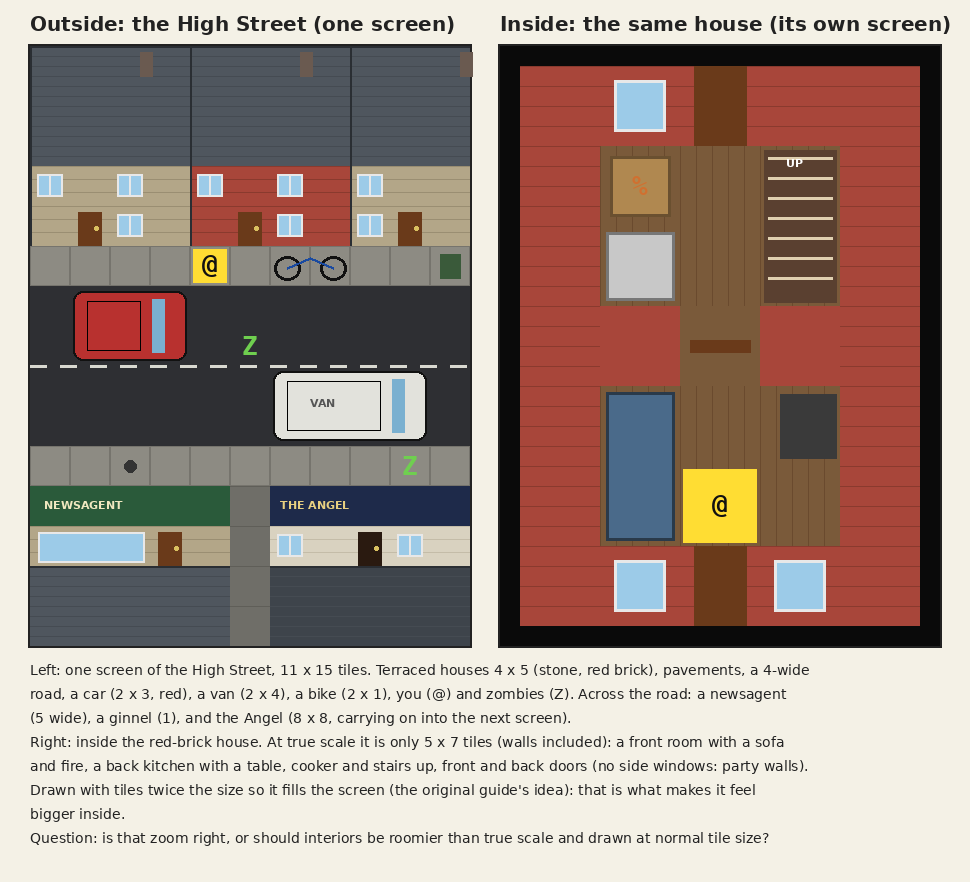
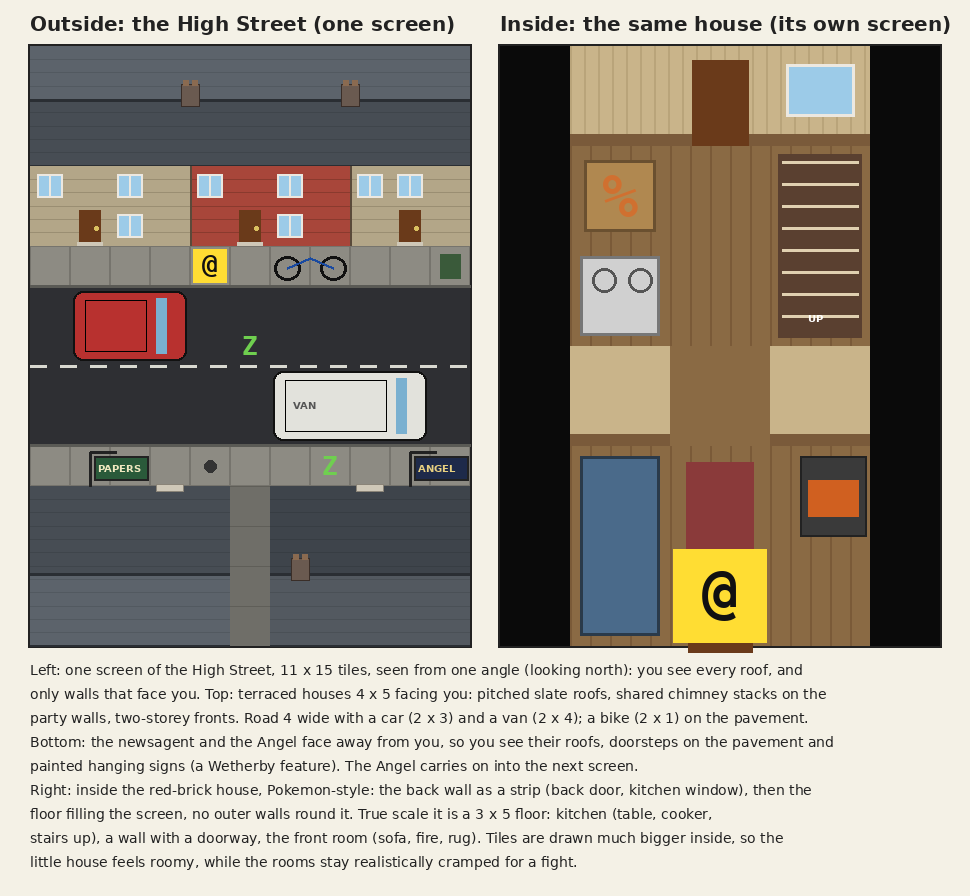
Sample screen v2: one camera angle outside (roofs, south-facing walls, hanging signs), Pokemon-style interior
Claude-Session: https://claude.ai/code/session_017J8T9cwTP1Hr7eduLsqAEN

diff --git a/docs/sample-screen.py b/docs/sample-screen.py
@@ -1,4 +1,8 @@
 # Draws a sample street screen (outside scale) and the inside of one house (true scale), greybox style.
+# One camera angle everywhere (looking north, a little from above): you see every roof, and only the
+# walls that face you. Buildings that face away show their roof and back, with a hanging sign over
+# the pavement. Inside, Pokemon-style: the back wall as a strip, the floor filling the screen, no
+# outer walls drawn round it.
 # Run from the repo root: python3 docs/sample-screen.py  ->  docs/sample-screen.png
 from PIL import Image, ImageDraw, ImageFont
 
@@ -10,9 +14,10 @@ MONO = '/usr/share/fonts/truetype/dejavu/DejaVuSansMono-Bold.ttf'
 f_title = ImageFont.truetype(BOLD, 20)
 f_cap = ImageFont.truetype(FONT, 14)
 f_glyph = ImageFont.truetype(MONO, 26)
-f_tiny = ImageFont.truetype(BOLD, 11)
+f_big = ImageFont.truetype(MONO, 60)
+f_tiny = ImageFont.truetype(BOLD, 10)
 
-GAP, TOP, CAP = 30, 46, 236
+GAP, TOP, CAP = 30, 46, 250
 W = COLS * T * 2 + GAP * 3
 H = TOP + ROWS * T + CAP
 img = Image.new('RGB', (W, H), '#f4f1e6')
@@ -22,151 +27,179 @@ def panel(ox, oy, title):
     d.text((ox, 12), title, font=f_title, fill='#222')
     d.rectangle([ox - 2, oy - 2, ox + COLS * T + 1, oy + ROWS * T + 1], outline='#222', width=2)
 
-def R(ox, oy, x, y, w=1, h=1, t=T):
-    return [ox + x * t, oy + y * t, ox + (x + w) * t - 1, oy + (y + h) * t - 1]
-
-def glyph(ox, oy, x, y, ch, fg, bg=None, t=T):
+def glyph(px, py, size, ch, fg, bg=None, font=f_glyph):
     if bg:
-        d.rectangle([ox + x * t + 3, oy + y * t + 3, ox + (x + 1) * t - 4, oy + (y + 1) * t - 4], fill=bg)
-    bb = d.textbbox((0, 0), ch, font=f_glyph)
-    d.text((ox + x * t + (t - (bb[2] - bb[0])) / 2 - bb[0], oy + y * t + (t - (bb[3] - bb[1])) / 2 - bb[1]), ch, font=f_glyph, fill=fg)
+        d.rectangle([px + 3, py + 3, px + size - 4, py + size - 4], fill=bg)
+    bb = d.textbbox((0, 0), ch, font=font)
+    d.text((px + (size - (bb[2] - bb[0])) / 2 - bb[0], py + (size - (bb[3] - bb[1])) / 2 - bb[1]), ch, font=font, fill=fg)
 
 # ---------------- Left: a High Street screen, outside scale ----------------
 ox, oy = GAP, TOP
 panel(ox, oy, 'Outside: the High Street (one screen)')
+X = lambda x: ox + x * T
+Y = lambda y: oy + y * T
 
-def roof(x, y, w, h, col='#4f565e'):
-    d.rectangle(R(ox, oy, x, y, w, h), fill=col)
-    for k in range(h * 4):
-        yy = oy + y * T + k * T // 4
-        d.line([ox + x * T, yy, ox + (x + w) * T - 1, yy], fill='#454b52', width=1)
-    d.line([ox + x * T, oy + y * T, ox + (x + w) * T - 1, oy + y * T], fill='#2a2e33', width=2)
+def pitched_roof(x, y, w, h, far='#5c636b', near='#474d54', ridge_at=0.5):
+    """A pitched roof seen from the south: the far slope (lit) above the ridge, the near slope below."""
+    ry = Y(y) + int(h * T * ridge_at)
+    d.rectangle([X(x), Y(y), X(x + w) - 1, ry], fill=far)
+    d.rectangle([X(x), ry, X(x + w) - 1, Y(y + h) - 1], fill=near)
+    def shade(c, f):
+        c = c.lstrip('#'); return '#' + ''.join(f'{max(0, int(int(c[i:i + 2], 16) * f)):02x}' for i in (0, 2, 4))
+    for k in range(1, h * 3):                       # slate courses, a touch darker than the slope
+        yy = Y(y) + k * T // 3
+        if abs(yy - ry) < 4:
+            continue
+        d.line([X(x), yy, X(x + w) - 1, yy], fill=shade(far if yy < ry else near, 0.9), width=1)
+    d.line([X(x), ry, X(x + w) - 1, ry], fill='#2a2e33', width=3)              # ridge
+    d.line([X(x), Y(y + h) - 1, X(x + w) - 1, Y(y + h) - 1], fill='#2a2e33', width=2)  # eaves
 
-def wall(x, y, w, h, col='#b3a688', course='#9a8e72'):
-    d.rectangle(R(ox, oy, x, y, w, h), fill=col)
-    for k in range(h * 3):
-        yy = oy + y * T + k * T // 3
-        d.line([ox + x * T, yy, ox + (x + w) * T - 1, yy], fill=course, width=1)
+def stack(px, ry):                                   # a shared chimney stack on the ridge
+    d.rectangle([px - 9, ry - 16, px + 9, ry + 6], fill='#6a5a50', outline='#3a2e28')
+    for k in (-5, 4):
+        d.rectangle([px + k - 2, ry - 20, px + k + 3, ry - 15], fill='#8a6a50')
+
+def front_wall(x, y, w, h, col, course):
+    d.rectangle([X(x), Y(y), X(x + w) - 1, Y(y + h) - 1], fill=col)
+    for k in range(1, h * 3):
+        yy = Y(y) + k * T // 3
+        d.line([X(x), yy, X(x + w) - 1, yy], fill=course, width=1)
 
 def door(x, y, col='#6a3a1a'):
-    d.rectangle([ox + x * T + 8, oy + y * T + 6, ox + (x + 1) * T - 9, oy + (y + 1) * T - 1], fill=col)
-    d.ellipse([ox + x * T + 24, oy + y * T + 20, ox + x * T + 28, oy + y * T + 24], fill='#d9c060')
+    d.rectangle([X(x) + 9, Y(y) + 4, X(x + 1) - 10, Y(y + 1) - 1], fill=col)
+    d.ellipse([X(x) + 24, Y(y) + 20, X(x) + 28, Y(y) + 24], fill='#d9c060')
+    d.rectangle([X(x) + 7, Y(y + 1) - 4, X(x + 1) - 8, Y(y + 1) - 1], fill='#cfc8b8')   # step
 
-def window(x, y, wide=1):
-    d.rectangle([ox + x * T + 7, oy + y * T + 8, ox + (x + wide) * T - 8, oy + (y + 1) * T - 10], fill='#9ccbe8', outline='#e8e8e8', width=2)
-    d.line([ox + x * T + 7 + ((wide * T - 15) // 2), oy + y * T + 8, ox + x * T + 7 + ((wide * T - 15) // 2), oy + (y + 1) * T - 10], fill='#e8e8e8', width=2)
+def window(x, y, w=1):
+    d.rectangle([X(x) + 7, Y(y) + 8, X(x + w) - 8, Y(y + 1) - 9], fill='#9ccbe8', outline='#ece8e0', width=2)
+    mx = (X(x) + 7 + X(x + w) - 8) // 2
+    d.line([mx, Y(y) + 8, mx, Y(y + 1) - 9], fill='#ece8e0', width=2)
 
-# Row 0-4: a terrace of houses, 4 wide x 5 deep, fronts facing the street (down)
-for i, x in enumerate([0, 4, 8]):
-    w = 4 if x < 8 else 3
-    roof(x, 0, w, 3)
-    wall(x, 3, w, 2, '#b3a688' if i != 1 else '#a8463a', '#9a8e72' if i != 1 else '#8a3a2e')
-    d.rectangle([ox + (x + 3) * T - 10, oy + 6, ox + (x + 3) * T + 2, oy + 30], fill='#6a5a50')   # chimney
-    window(x, 3); window(x + 2, 3) if w == 4 else None
-    door(x + 1, 4); window(x + 2, 4) if w == 4 else window(x, 4)
-    d.line([ox + x * T, oy, ox + x * T, oy + 5 * T], fill='#2a2e33', width=2)     # party wall
-# Row 5: pavement
+# North side of the street: a terrace, fronts facing you (south). Each house 4 wide x 5 deep:
+# roof 3 rows (ridge along the row, chimney stacks on the party walls), front wall 2 rows (two storeys).
+houses = [(0, 4, '#b3a688', '#9a8e72'), (4, 4, '#a8463a', '#8a3a2e'), (8, 3, '#b3a688', '#9a8e72')]
+for x, w, col, course in houses:
+    pitched_roof(x, 0, w, 3, ridge_at=0.45)
+for x, w, col, course in houses:
+    front_wall(x, 3, w, 2, col, course)
+    window(x, 3); window(x + 2, 3) if w == 4 else window(x + 1, 3)
+    door(x + 1, 4); window(x + 2, 4) if w == 4 else None
+ry = Y(0) + int(3 * T * 0.45)
+for px in (X(4), X(8)):
+    stack(px, ry)
+for px in (X(4), X(8)):
+    d.line([px, Y(3), px, Y(5) - 1], fill='#5a4a3a', width=2)             # party walls between fronts
+
+# Pavement, road (4 wide, centre line), pavement
 for x in range(COLS):
-    d.rectangle(R(ox, oy, x, 5), fill='#8d8b83', outline='#76746d')
-# Row 6-9: the road, 4 wide, centre line
-d.rectangle(R(ox, oy, 0, 6, COLS, 4), fill='#2e2f33')
+    d.rectangle([X(x), Y(5), X(x + 1) - 1, Y(6) - 1], fill='#8d8b83', outline='#76746d')
+    d.rectangle([X(x), Y(10), X(x + 1) - 1, Y(11) - 1], fill='#8d8b83', outline='#76746d')
+d.rectangle([X(0), Y(6), X(COLS) - 1, Y(10) - 1], fill='#2e2f33')
 for x in range(0, COLS * T, 30):
-    d.line([ox + x, oy + 8 * T, ox + x + 16, oy + 8 * T], fill='#d8d8d0', width=3)
-# Row 10: pavement
-for x in range(COLS):
-    d.rectangle(R(ox, oy, x, 10), fill='#8d8b83', outline='#76746d')
-# Row 11-14: across the road: corner shop (5 wide), a ginnel, the pub (8 wide, goes off screen)
-wall(0, 11, 5, 2, '#b3a688')
-d.rectangle(R(ox, oy, 0, 11, 5, 1), fill='#2a5a3a')                         # shop fascia
-d.text((ox + 14, oy + 11 * T + 12), 'NEWSAGENT', font=f_tiny, fill='#f0e8c0')
-d.rectangle([ox + 8, oy + 12 * T + 6, ox + 3 * T - 6, oy + 13 * T - 4], fill='#9ccbe8', outline='#e8e8e8', width=2)  # shop window
-door(3, 12)
-roof(0, 13, 5, 2)
-d.rectangle(R(ox, oy, 5, 11, 1, 4), fill='#6f6e68')                          # ginnel
+    d.line([X(0) + x, Y(8), X(0) + x + 16, Y(8)], fill='#d8d8d0', width=3)
+d.line([X(0), Y(6), X(COLS), Y(6)], fill='#5a5a55', width=3)                   # kerbs
+d.line([X(0), Y(10) - 1, X(COLS), Y(10) - 1], fill='#5a5a55', width=3)
+
+# South side of the street: the newsagent and the Angel face north (away from you), so you see
+# their roofs (near slope at the bottom) and a hanging sign and doorstep on the pavement side.
+pitched_roof(0, 11, 5, 4, far='#474d54', near='#5c636b', ridge_at=0.55)        # newsagent
+d.rectangle([X(5), Y(11), X(6) - 1, Y(15) - 1], fill='#6f6e68')               # ginnel
 for k in range(4):
-    d.line([ox + 5 * T, oy + (11 + k) * T, ox + 6 * T - 1, oy + (11 + k) * T], fill='#5f5e58', width=1)
-wall(6, 11, 5, 2, '#d9d2c0', '#c4bca8')                                      # pub: whitewashed
-d.rectangle(R(ox, oy, 6, 11, 5, 1), fill='#1e2a4a')
-d.text((ox + 6 * T + 10, oy + 11 * T + 12), 'THE ANGEL', font=f_tiny, fill='#e8d080')
-window(6, 12); door(8, 12, '#2a1a10'); window(9, 12)
-roof(6, 13, 5, 2, '#3e444b')
-# Vehicles and things (outside sizes): car 2x3, van 2x4, bike 2x1
-def car(x, y, length, col, horiz=True):
-    x0, y0 = ox + x * T + 3, oy + y * T + 5
-    x1, y1 = ox + (x + length) * T - 4, oy + (y + 2) * T - 6
+    d.line([X(5), Y(11 + k), X(6) - 1, Y(11 + k)], fill='#5f5e58', width=1)
+pitched_roof(6, 11, 5, 4, far='#3e444b', near='#535960', ridge_at=0.55)         # the Angel (8 wide, carries on east)
+stack(X(6) + 30, Y(11) + int(4 * T * 0.55))
+# Doorsteps on the street side (their doors are on the far side of the roof from you)
+for x in (3, 8):
+    d.rectangle([X(x) + 6, Y(11) - 2, X(x + 1) - 7, Y(11) + 5], fill='#cfc8b8', outline='#8a8478')
+# Hanging signs over the pavement, on brackets from the front wall
+def sign(x, text, bg, fg):
+    bx = X(x) + 20
+    d.line([bx, Y(11), bx, Y(10) + 6], fill='#222', width=3)
+    d.line([bx, Y(10) + 6, bx + 26, Y(10) + 6], fill='#222', width=3)
+    d.rectangle([bx + 4, Y(10) + 10, bx + 58, Y(10) + 34], fill=bg, outline='#222', width=2)
+    d.text((bx + 8, Y(10) + 16), text, font=f_tiny, fill=fg)
+sign(1, 'PAPERS', '#2a5a3a', '#f0e8c0')
+sign(9, 'ANGEL', '#1e2a4a', '#e8d080')
+
+# Vehicles (outside sizes): car 2x3, van 2x4 (width x length; here parked along the road), bike 2x1
+def vehicle(x, y, length, col, label=None):
+    x0, y0, x1, y1 = X(x) + 3, Y(y) + 5, X(x + length) - 4, Y(y + 2) - 6
     d.rounded_rectangle([x0, y0, x1, y1], radius=10, fill=col, outline='#111', width=2)
-    d.rectangle([x1 - 34, y0 + 8, x1 - 22, y1 - 8], fill='#7ab0d0')            # windscreen
-    d.rectangle([x0 + 14, y0 + 10, x1 - 46, y1 - 10], fill=col, outline='#00000040')
-car(1, 6, 3, '#b8312f')                                                       # car, parked
-car(6, 8, 4, '#e2e2dc')                                                       # van, other side
-d.text((ox + 7 * T, oy + 8 * T + 30), 'VAN', font=f_tiny, fill='#555')
-# Bike on the pavement (2x1)
-bx, by = ox + 6 * T, oy + 5 * T
+    d.rectangle([x1 - 30, y0 + 7, x1 - 20, y1 - 7], fill='#7ab0d0')
+    d.rectangle([x0 + 12, y0 + 9, x1 - 40, y1 - 9], fill=col, outline='#00000055')
+    if label:
+        d.text((x0 + 20, (y0 + y1) // 2 - 6), label, font=f_tiny, fill='#555')
+vehicle(1, 6, 3, '#b8312f')
+vehicle(6, 8, 4, '#e2e2dc', 'VAN')
+bx, by = X(6), Y(5)
 d.ellipse([bx + 4, by + 10, bx + 30, by + 34], outline='#111', width=3)
 d.ellipse([bx + T + 10, by + 10, bx + T + 36, by + 34], outline='#111', width=3)
 d.line([bx + 17, by + 22, bx + 40, by + 12, bx + T + 23, by + 22], fill='#1a4aa0', width=3)
-# Lamp post and a bin
-d.ellipse([ox + 2 * T + 14, oy + 10 * T + 14, ox + 2 * T + 26, oy + 10 * T + 26], fill='#333')
-d.rectangle([ox + 10 * T + 10, oy + 5 * T + 8, ox + 10 * T + 30, oy + 5 * T + 32], fill='#3a5a3a')
-# People: you and a zombie (1 tile each)
-glyph(ox, oy, 4, 5, '@', '#111', '#ffdd33')
-glyph(ox, oy, 5, 7, 'Z', '#6fcf4f')
-glyph(ox, oy, 9, 10, 'Z', '#6fcf4f')
+d.ellipse([X(4) + 14, Y(10) + 14, X(4) + 26, Y(10) + 26], fill='#333')        # lamp post
+d.rectangle([X(10) + 10, Y(5) + 8, X(10) + 30, Y(5) + 32], fill='#3a5a3a')    # bin
+glyph(X(4), Y(5), T, '@', '#111', '#ffdd33')
+glyph(X(5), Y(7), T, 'Z', '#6fcf4f')
+glyph(X(7), Y(10), T, 'Z', '#6fcf4f')
 
-# ---------------- Right: inside the red-brick house, true scale ----------------
+# ---------------- Right: inside the red-brick house, Pokemon-style ----------------
 ix, iy = GAP * 2 + COLS * T, TOP
 panel(ix, iy, 'Inside: the same house (its own screen)')
 d.rectangle([ix, iy, ix + COLS * T - 1, iy + ROWS * T - 1], fill='#0a0a0a')
-# The house is 5 x 7 tiles at true scale (walls included); drawn so it fills the screen (tiles x2).
-Z = 2 * T
-hx, hy = ix + (COLS * T - 5 * Z) // 2, iy + (ROWS * T - 7 * Z) // 2
-def ri(x, y, w=1, h=1):
-    return [hx + x * Z, hy + y * Z, hx + (x + w) * Z - 1, hy + (y + h) * Z - 1]
-for y in range(7):
-    for x in range(5):
-        edge = x in (0, 4) or y in (0, 6)
-        if edge:
-            d.rectangle(ri(x, y), fill='#a8463a')
-            for k in range(4):
-                d.line([hx + x * Z, hy + y * Z + k * Z // 4, hx + (x + 1) * Z - 1, hy + y * Z + k * Z // 4], fill='#8a3a2e')
-        else:
-            d.rectangle(ri(x, y), fill='#7a5a3a')
-            for k in range(0, Z, 16):
-                d.line([hx + x * Z + k, hy + y * Z, hx + x * Z + k, hy + (y + 1) * Z - 1], fill='#6a4a2e')
-# Partition between the back kitchen (top) and the front room (bottom), with an inside door
-for x in (1, 3):
-    d.rectangle(ri(x, 3), fill='#a8463a')
-d.rectangle(ri(2, 3), fill='#7a5a3a')
-d.rectangle([hx + 2 * Z + 10, hy + 3 * Z + Z // 2 - 6, hx + 3 * Z - 10, hy + 3 * Z + Z // 2 + 6], fill='#6a3a1a')
-# Front door (bottom), back door (top), windows
-d.rectangle([hx + 2 * Z + 14, hy + 6 * Z, hx + 3 * Z - 14, hy + 7 * Z - 1], fill='#6a3a1a')
-d.rectangle([hx + 2 * Z + 14, hy, hx + 3 * Z - 14, hy + Z - 1], fill='#6a3a1a')
-for (x, y) in [(1, 6), (3, 6), (1, 0)]:   # front windows either side of the door, one at the back (party walls: none at the sides)
-    d.rectangle([hx + x * Z + 14, hy + y * Z + 14, hx + (x + 1) * Z - 15, hy + (y + 1) * Z - 15], fill='#9ccbe8', outline='#e8e8e8', width=3)
-# Furniture: sofa 1x2 and fireplace in the front room; table, cooker and the stairs (1x2) in the kitchen
-d.rectangle([hx + 1 * Z + 6, hy + 4 * Z + 6, hx + 2 * Z - 6, hy + 6 * Z - 6], fill='#4a6a8a', outline='#2a3a4a', width=3)   # sofa
-d.rectangle([hx + 3 * Z + 20, hy + 4 * Z + 8, hx + 4 * Z - 4, hy + 5 * Z - 8], fill='#3a3a3a')                               # fireplace
-d.rectangle([hx + 1 * Z + 10, hy + 1 * Z + 10, hx + 2 * Z - 10, hy + 2 * Z - 10], fill='#b08850', outline='#6a5030', width=3)  # table
-d.rectangle([hx + 1 * Z + 6, hy + 2 * Z + 6, hx + 2 * Z - 6, hy + 3 * Z - 6], fill='#c8c8c8', outline='#777', width=3)      # cooker
-d.rectangle([hx + 3 * Z + 4, hy + 1 * Z + 4, hx + 4 * Z - 4, hy + 3 * Z - 4], fill='#5a4030')                                # stairs up (1x2)
-for k in range(7):
-    yy = hy + 1 * Z + 12 + k * 20
-    d.line([hx + 3 * Z + 8, yy, hx + 4 * Z - 8, yy], fill='#e0d0b0', width=3)
-d.text((hx + 3 * Z + 26, hy + 1 * Z + 10), 'UP', font=f_tiny, fill='#ffffff')
-# A tin on the table, you at the door
-glyph(hx, hy, 1, 1, '%', '#d07030', None, Z)
-glyph(hx, hy, 2, 5, '@', '#111', '#ffdd33', Z)
+# True scale: a 5 x 7 house is a 3 x 5 floor (kitchen behind, front room in front, a wall between).
+# Shown as the floor filling the screen, with the back wall as a strip along the top. No outer walls.
+FW, FH = 3, 5
+Z = min((COLS * T) // FW, (ROWS * T) // (FH + 1))      # tile size inside: as big as fits (100 px)
+hx = ix + (COLS * T - FW * Z) // 2
+hy = iy + (ROWS * T - (FH + 1) * Z) // 2 + Z           # floor starts below the back-wall strip
+def ri(x, y, w=1, h=1, pad=0):
+    return [hx + x * Z + pad, hy + y * Z + pad, hx + (x + w) * Z - 1 - pad, hy + (y + h) * Z - 1 - pad]
+# Back wall strip: wallpaper, the back door and the kitchen window
+d.rectangle([hx, hy - Z, hx + FW * Z - 1, hy - 1], fill='#c9b48a')
+for k in range(0, FW * Z, 14):
+    d.line([hx + k, hy - Z, hx + k, hy - 1], fill='#b9a47a', width=2)
+d.rectangle([hx, hy - 12, hx + FW * Z - 1, hy - 1], fill='#7a5a3a')               # skirting
+d.rectangle([hx + 1 * Z + 22, hy - Z + 14, hx + 2 * Z - 22, hy - 1], fill='#6a3a1a')  # back door
+d.rectangle([hx + 2 * Z + 16, hy - Z + 18, hx + 3 * Z - 16, hy - 30], fill='#9ccbe8', outline='#ece8e0', width=3)
+# Floorboards
+for y in range(FH):
+    for x in range(FW):
+        d.rectangle(ri(x, y), fill='#8a6a44')
+        for k in range(0, Z, 20):
+            d.line([hx + x * Z + k, hy + y * Z, hx + x * Z + k, hy + (y + 1) * Z - 1], fill='#7a5a38', width=2)
+# The wall between the kitchen (rows 0-1) and the front room (rows 3-4), with an open door in the middle
+d.rectangle(ri(0, 2), fill='#c9b48a'); d.rectangle(ri(2, 2), fill='#c9b48a')
+d.rectangle([hx, hy + 2 * Z + Z - 12, hx + FW * Z - 1, hy + 3 * Z - 1], fill='#7a5a3a')
+d.rectangle(ri(1, 2), fill='#8a6a44')
+# Kitchen: table with a tin on it, the cooker, stairs up along the side
+d.rectangle(ri(0, 0, pad=14), fill='#b08850', outline='#6a5030', width=3)
+glyph(hx, hy, Z, '%', '#d07030', font=f_big)
+d.rectangle(ri(0, 1, pad=10), fill='#d0d0d0', outline='#777', width=3)
+for k in (0, 1):
+    d.ellipse([hx + 22 + k * 36, hy + Z + 22, hx + 46 + k * 36, hy + Z + 46], outline='#555', width=3)
+d.rectangle(ri(2, 0, 1, 2, pad=8), fill='#5a4030')
+for k in range(8):
+    yy = hy + 16 + k * 22
+    d.line([hx + 2 * Z + 12, yy, hx + 3 * Z - 12, yy], fill='#e0d0b0', width=3)
+d.text((hx + 2 * Z + 38, hy + 2 * Z - 34), 'UP', font=f_tiny, fill='#fff')
+# Front room: sofa (1x2), fireplace, rug; front door at the bottom edge with a mat
+d.rectangle(ri(0, 3, 1, 2, pad=10), fill='#4a6a8a', outline='#2a3a4a', width=3)
+d.rectangle([hx + 2 * Z + 30, hy + 3 * Z + 10, hx + 3 * Z - 4, hy + 4 * Z - 10], fill='#3a3a3a', outline='#222', width=2)
+d.rectangle([hx + 2 * Z + 38, hy + 3 * Z + 34, hx + 3 * Z - 12, hy + 4 * Z - 30], fill='#d06020')
+d.rectangle(ri(1, 3, 1, 2, pad=16), fill='#8a3a3a')
+d.rectangle([hx + 1 * Z + 18, hy + 5 * Z - 8, hx + 2 * Z - 18, hy + 5 * Z + 6], fill='#6a3a1a')   # front door (into the street)
+glyph(hx + Z, hy + 4 * Z, Z, '@', '#111', '#ffdd33', f_big)
 
 # ---------------- Captions ----------------
 cap = [
-    'Left: one screen of the High Street, 11 x 15 tiles. Terraced houses 4 x 5 (stone, red brick), pavements, a 4-wide',
-    'road, a car (2 x 3, red), a van (2 x 4), a bike (2 x 1), you (@) and zombies (Z). Across the road: a newsagent',
-    '(5 wide), a ginnel (1), and the Angel (8 x 8, carrying on into the next screen).',
-    'Right: inside the red-brick house. At true scale it is only 5 x 7 tiles (walls included): a front room with a sofa',
-    'and fire, a back kitchen with a table, cooker and stairs up, front and back doors (no side windows: party walls).',
-    'Drawn with tiles twice the size so it fills the screen (the original guide\'s idea): that is what makes it feel',
-    'bigger inside.',
-    'Question: is that zoom right, or should interiors be roomier than true scale and drawn at normal tile size?',
+    'Left: one screen of the High Street, 11 x 15 tiles, seen from one angle (looking north): you see every roof, and',
+    'only walls that face you. Top: terraced houses 4 x 5 facing you: pitched slate roofs, shared chimney stacks on the',
+    'party walls, two-storey fronts. Road 4 wide with a car (2 x 3) and a van (2 x 4); a bike (2 x 1) on the pavement.',
+    'Bottom: the newsagent and the Angel face away from you, so you see their roofs, doorsteps on the pavement and',
+    'painted hanging signs (a Wetherby feature). The Angel carries on into the next screen.',
+    'Right: inside the red-brick house, Pokemon-style: the back wall as a strip (back door, kitchen window), then the',
+    'floor filling the screen, no outer walls round it. True scale it is a 3 x 5 floor: kitchen (table, cooker,',
+    'stairs up), a wall with a doorway, the front room (sofa, fire, rug). Tiles are drawn much bigger inside, so the',
+    'little house feels roomy, while the rooms stay realistically cramped for a fight.',
 ]
 for i, t in enumerate(cap):
     d.text((GAP, TOP + ROWS * T + 16 + i * 24), t, font=f_cap, fill='#222')

diff --git a/CLAUDE.md b/CLAUDE.md
@@ -76,6 +76,8 @@ Two scales, Pokémon-style (playtest decision): buildings are smaller outside th
 - Outside (the town map): sized against the vehicles, which are close to real size (playtest: "a person is one tile, a bike is 2×1, a car is 2×3, a van is 2×4; the houses need to match that scale a little"). Vehicles (width × length): bike 2×1, car 2×3, van 2×4, tractor 2×3. Buildings are about three-quarters of true size, still smaller than inside (width × depth): terraced house 4×5, semi 5×6 (a pair 10×6), detached 6×6, farmhouse 6×7, corner shop 5×6, post office / bank 6×6, pub / coaching inn 8×8, church 8×14 (with tower), barn 6×9, shed 3×3, greenhouse 3×4, station 12×5, superstore 16×12, factory shed 10×8, train carriage 2×12. People, zombies and items are always 1 tile. (First tried at about half true size, e.g. a terraced house 3×3 and a car 2×1: too small.)
 - Ways (widths, outside): snicket/ginnel 1, pavement 1, lane 2–3, main road 4–5, bridge 3, river 4–6, wall/hedge 1.
 - Because buildings are small outside, the town map fits a real town's worth of streets; open countryside at the edge of town is compressed further.
+- One camera angle outside (looking north, a little from above): every roof shows, with its ridge and two slopes (slate courses, shared chimney stacks on the party walls of terraces), and only walls that face you (south) show, with their doors and windows. A building that faces away shows its roof and back, a doorstep on the pavement, and a painted hanging sign over the pavement so you can tell what it is (hanging signs are a Wetherby feature).
+- Inside, Pokémon-style: the back wall is a strip along the top (wallpaper, windows, the back door), the floor fills the screen below it, and no outer walls are drawn round the sides or front; the front door is on the bottom edge. Interior tiles are drawn as big as fits the screen (a terraced house's 3 x 5 floor at ~100 px a tile), so a small house feels roomy while the rooms stay realistically cramped for a fight. Inside walls between rooms show as strips with doorways. Sample: docs/sample-screen.png (drawn by docs/sample-screen.py).
 
 ## Materials
 Stone, slate, brick, wood, glass, corrugated metal. Each has HP, flammability, see-through, and noise when hit or broken. Sheds can be wood or corrugated metal.
